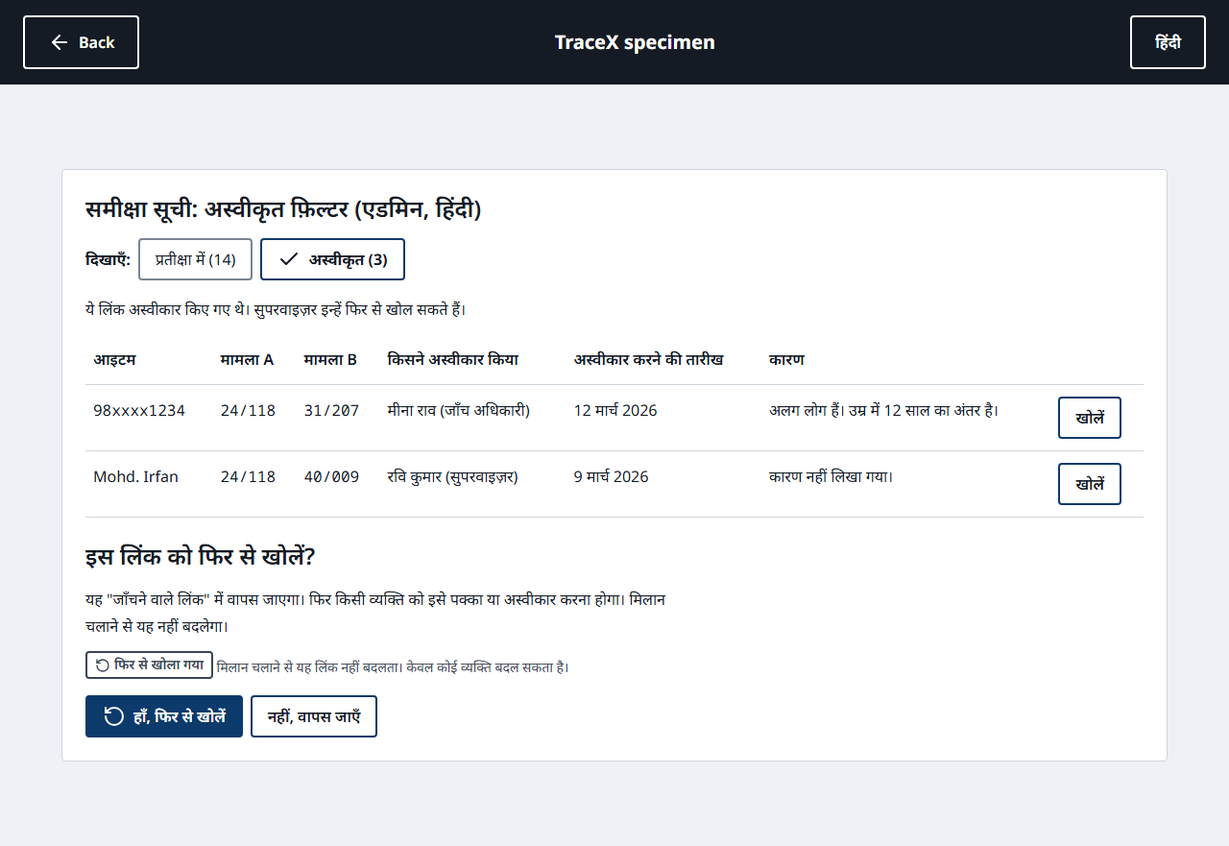
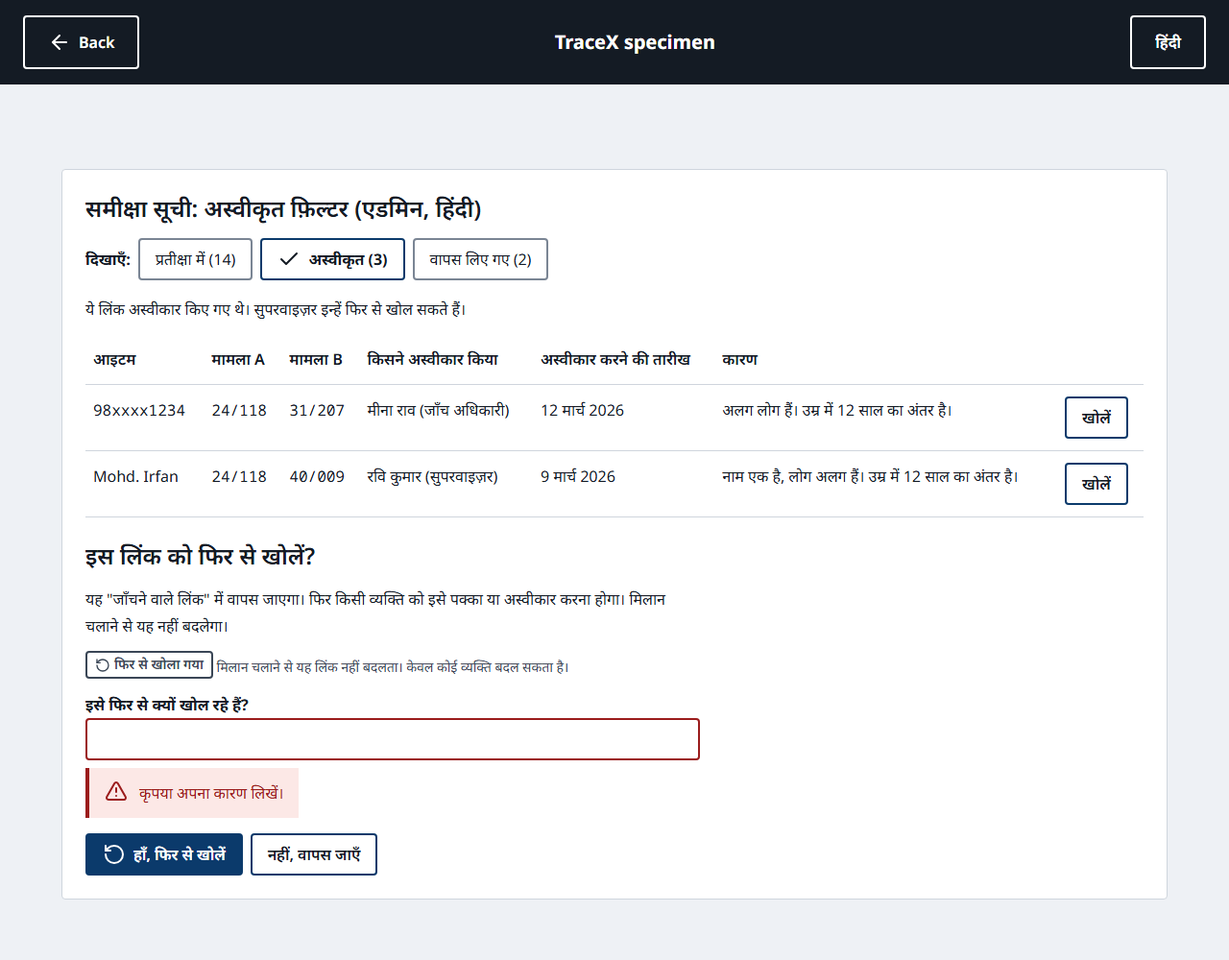
docs(design): required reasons, not-found for hidden links, Undone filter (D43)

diff --git a/docs/design/specimen.html b/docs/design/specimen.html
@@ -615,6 +615,7 @@
             <button class="btn" type="button" aria-pressed="true">
               <svg class="i"><use href="#check" /></svg>Rejected (3)
             </button>
+            <button class="btn" type="button" aria-pressed="false">Undone (2)</button>
           </div>
           <p>These links were rejected. A supervisor can reopen them.</p>
           <table class="qtable">
@@ -645,7 +646,7 @@
                 <td data-label="Case B"><span class="mono">40/009</span></td>
                 <td data-label="Rejected by">Ravi Kumar (Supervisor)</td>
                 <td data-label="Rejected on">9 Mar 2026</td>
-                <td data-label="Reason">No reason written.</td>
+                <td data-label="Reason">Same name, different people. Ages differ by 12 years.</td>
                 <td class="act"><button class="btn" type="button">Open</button></td>
               </tr>
             </tbody>
@@ -660,6 +661,29 @@
               ><svg class="i"><use href="#rotate-ccw" /></svg>Reopened</span
             >
             Matching runs do not change this link. Only a person can.
+          </p>
+          <p>
+            <label for="rfe"><strong>Why are you reopening it?</strong></label
+            ><br /><input
+              id="rfe"
+              type="text"
+              aria-invalid="true"
+              aria-describedby="ree"
+              style="
+                width: 100%;
+                min-height: var(--tap-min);
+                font: inherit;
+                border: var(--border-2) solid var(--color-danger);
+                border-radius: var(--radius);
+                padding: 0 var(--space-3);
+                box-sizing: border-box;
+              "
+            /><br /><span
+              id="ree"
+              class="msg"
+              style="display: inline-flex; margin-top: var(--space-2)"
+              ><svg class="i"><use href="#alert" /></svg>Please write your reason.</span
+            >
           </p>
           <div class="row">
             <button class="btn primary" type="button">
@@ -679,6 +703,7 @@
             <button class="btn" type="button" aria-pressed="true">
               <svg class="i"><use href="#check" /></svg>अस्वीकृत (3)
             </button>
+            <button class="btn" type="button" aria-pressed="false">वापस लिए गए (2)</button>
           </div>
           <p>ये लिंक अस्वीकार किए गए थे। सुपरवाइज़र इन्हें फिर से खोल सकते हैं।</p>
           <table class="qtable">
@@ -709,7 +734,7 @@
                 <td data-label="मामला B"><span class="mono">40/009</span></td>
                 <td data-label="किसने अस्वीकार किया">रवि कुमार (सुपरवाइज़र)</td>
                 <td data-label="अस्वीकार करने की तारीख">9 मार्च 2026</td>
-                <td data-label="कारण">कारण नहीं लिखा गया।</td>
+                <td data-label="कारण">नाम एक है, लोग अलग हैं। उम्र में 12 साल का अंतर है।</td>
                 <td class="act"><button class="btn" type="button">खोलें</button></td>
               </tr>
             </tbody>
@@ -725,12 +750,131 @@
             >
             मिलान चलाने से यह लिंक नहीं बदलता। केवल कोई व्यक्ति बदल सकता है।
           </p>
+          <p>
+            <label for="rfh"><strong>इसे फिर से क्यों खोल रहे हैं?</strong></label
+            ><br /><input
+              id="rfh"
+              type="text"
+              aria-invalid="true"
+              aria-describedby="reh"
+              style="
+                width: 100%;
+                min-height: var(--tap-min);
+                font: inherit;
+                border: var(--border-2) solid var(--color-danger);
+                border-radius: var(--radius);
+                padding: 0 var(--space-3);
+                box-sizing: border-box;
+              "
+            /><br /><span
+              id="reh"
+              class="msg"
+              style="display: inline-flex; margin-top: var(--space-2)"
+              ><svg class="i"><use href="#alert" /></svg>कृपया अपना कारण लिखें।</span
+            >
+          </p>
           <div class="row">
             <button class="btn primary" type="button">
               <svg class="i"><use href="#rotate-ccw" /></svg>हाँ, फिर से खोलें
             </button>
             <button class="btn" type="button">नहीं, वापस जाएँ</button>
           </div>
+        </div>
+      </section>
+
+      <section>
+        <h2>Review queue: Undone filter (admin, English)</h2>
+        <div class="queue" data-app="admin">
+          <div class="filter" role="group" aria-label="Show">
+            <strong>Show:</strong>
+            <button class="btn" type="button" aria-pressed="false">Waiting (14)</button>
+            <button class="btn" type="button" aria-pressed="false">Rejected (3)</button>
+            <button class="btn" type="button" aria-pressed="true">
+              <svg class="i"><use href="#check" /></svg>Undone (2)
+            </button>
+          </div>
+          <p>These links were undone. A supervisor can reopen them.</p>
+          <table class="qtable">
+            <thead>
+              <tr>
+                <th>Item</th>
+                <th>Case A</th>
+                <th>Case B</th>
+                <th>Undone by</th>
+                <th>Undone on</th>
+                <th>Reason</th>
+                <th></th>
+              </tr>
+            </thead>
+            <tbody>
+              <tr>
+                <td data-label="Item"><span class="mono">98xxxx1234</span></td>
+                <td data-label="Case A"><span class="mono">24/118</span></td>
+                <td data-label="Case B"><span class="mono">31/207</span></td>
+                <td data-label="Undone by">Charu Singh (Supervisor)</td>
+                <td data-label="Undone on">12 Mar 2026</td>
+                <td data-label="Reason">Linked by mistake. Different phone owners.</td>
+                <td class="act"><button class="btn" type="button">Open</button></td>
+              </tr>
+              <tr>
+                <td data-label="Item">Mohd. Irfan</td>
+                <td data-label="Case A"><span class="mono">24/118</span></td>
+                <td data-label="Case B"><span class="mono">40/009</span></td>
+                <td data-label="Undone by">Charu Singh (Supervisor)</td>
+                <td data-label="Undone on">9 Mar 2026</td>
+                <td data-label="Reason">Number was reused by a new owner.</td>
+                <td class="act"><button class="btn" type="button">Open</button></td>
+              </tr>
+            </tbody>
+          </table>
+        </div>
+      </section>
+
+      <section lang="hi" style="line-height: var(--leading-hi)">
+        <h2>समीक्षा सूची: वापस लिए गए फ़िल्टर (एडमिन, हिंदी)</h2>
+        <div class="queue" data-app="admin">
+          <div class="filter" role="group" aria-label="दिखाएँ">
+            <strong>दिखाएँ:</strong>
+            <button class="btn" type="button" aria-pressed="false">प्रतीक्षा में (14)</button>
+            <button class="btn" type="button" aria-pressed="false">अस्वीकृत (3)</button>
+            <button class="btn" type="button" aria-pressed="true">
+              <svg class="i"><use href="#check" /></svg>वापस लिए गए (2)
+            </button>
+          </div>
+          <p>ये लिंक वापस लिए गए थे। सुपरवाइज़र इन्हें फिर से खोल सकते हैं।</p>
+          <table class="qtable">
+            <thead>
+              <tr>
+                <th>आइटम</th>
+                <th>मामला A</th>
+                <th>मामला B</th>
+                <th>किसने वापस लिया</th>
+                <th>वापस लेने की तारीख</th>
+                <th>कारण</th>
+                <th></th>
+              </tr>
+            </thead>
+            <tbody>
+              <tr>
+                <td data-label="आइटम"><span class="mono">98xxxx1234</span></td>
+                <td data-label="मामला A"><span class="mono">24/118</span></td>
+                <td data-label="मामला B"><span class="mono">31/207</span></td>
+                <td data-label="किसने वापस लिया">चारु सिंह (सुपरवाइज़र)</td>
+                <td data-label="वापस लेने की तारीख">12 मार्च 2026</td>
+                <td data-label="कारण">गलती से जुड़ गया। फ़ोन के मालिक अलग हैं।</td>
+                <td class="act"><button class="btn" type="button">खोलें</button></td>
+              </tr>
+              <tr>
+                <td data-label="आइटम">Mohd. Irfan</td>
+                <td data-label="मामला A"><span class="mono">24/118</span></td>
+                <td data-label="मामला B"><span class="mono">40/009</span></td>
+                <td data-label="किसने वापस लिया">चारु सिंह (सुपरवाइज़र)</td>
+                <td data-label="वापस लेने की तारीख">9 मार्च 2026</td>
+                <td data-label="कारण">नंबर नए मालिक को मिल गया था।</td>
+                <td class="act"><button class="btn" type="button">खोलें</button></td>
+              </tr>
+            </tbody>
+          </table>
         </div>
       </section>
 

diff --git a/docs/specs/design-flows.md b/docs/specs/design-flows.md
@@ -123,9 +123,12 @@ Replaces the content (no modal):
 ```
 | Reject this link?                                |
 | The two records will no longer be shown          |
-| as the same.                  |
+| as the same.                                     |
+| Why are you rejecting it?                        |
+| [ ____________________________ ]                 |
 | [ * No, go back ]      [ (x) Yes, reject ]       |
 ```
+The reason is required (access spec 3.1: reject, undo and reopen all need a reason; a missing reason is refused with 422). Empty field: "Please write your reason." beside the field, and "Yes, reject" does not act. The same reason field, labelled "Why are you undoing it?", sits on the step before "Undo this link" is carried out (A3b, O6, O8). Confirm needs no reason.
 "Yes, reject" uses the danger style; "No, go back" is primary here because the safe choice should be the easiest. Flow: Reject -> O7 -> Yes -> O8.
 
 ### O8 Link decided
@@ -182,15 +185,17 @@ Open -> A3b: the explanation panel with admin detail open by default, buttons `[
 #### A3c Rejected filter and Reopen (D34)
 Reopening a rejected link is done here and nowhere else. The officer app never lists a rejected link and has no Reopen button (a rejected link is not a connection, so there is not even a locked card for it).
 
-**Where the filter sits.** Directly under the page title, above the Type / Area filters, as a two-choice status switch with the label "Show":
+**Where the filter sits.** Directly under the page title, above the Type / Area filters, as a three-choice status switch with the label "Show" (D43):
 ```
-Show:  [ (check) Waiting (14) ]  [ Rejected (3) ]
+Show:  [ (check) Waiting (14) ]  [ Rejected (3) ]  [ Undone (2) ]
 ```
-It is a pair of buttons, 44px high, 8px apart. The chosen one has a solid 2px `action` border, bold text and a check icon; the other has a `line` border and no icon, so the choice is readable in grayscale. Default is "Waiting". Both counts are always visible. The choice is kept in the page address so Back returns to it. Type and Area filters apply to both choices; "Waiting more than 7 days" is hidden under Rejected.
+It is a row of buttons, 44px high, 8px apart. The chosen one has a solid 2px `action` border, bold text and a check icon; the other has a `line` border and no icon, so the choice is readable in grayscale. Default is "Waiting". All three counts are always visible. The choice is kept in the page address so Back returns to it. Type and Area filters apply to both choices; "Waiting more than 7 days" is hidden under Rejected and Undone.
 
 **Counts.** Counts include only links the viewer may see (access spec: rows the viewer may not see do not exist for them). A count never reveals a hidden link.
 
-**Rejected table.** Line above it: "These links were rejected. A supervisor can reopen them." Columns: Item, Case A, Case B, Rejected by (name, then the plain role label from DESIGN_RULES 7a), Rejected on ("12 Mar 2026"), Reason (wraps, never cut with "..."; full text in Open), `[Open]`. Default sort: Rejected on, newest first. No strength badge (the link is no longer a link). "Show more" after 50 rows. If the rejecter wrote no reason the cell says "No reason written."
+**Rejected table.** Line above it: "These links were rejected. A supervisor can reopen them." Columns: Item, Case A, Case B, Rejected by (name, then the plain role label from DESIGN_RULES 7a), Rejected on ("12 Mar 2026"), Reason (wraps, never cut with "..."; full text in Open), `[Open]`. Default sort: Rejected on, newest first. No strength badge (the link is no longer a link). "Show more" after 50 rows. The reason is always present (it is required when rejecting).
+
+**Undone filter (D43).** Same table, same row design and same Reopen flow. Line above it: "These links were undone. A supervisor can reopen them." Columns: Item, Case A, Case B, Undone by, Undone on, Reason, `[Open]`. Open shows the history message "(x) Undone by Charu Singh (Supervisor) on 12 Mar 2026" with the reason, then the explanation panel and `[ * Reopen this link ]`. Reopening an undone link behaves exactly as for a rejected one (it becomes a Possible match under Waiting with the "Reopened" tag; D37 applies). Empty: "No undone links. Links that supervisors undo will appear here."
 
 **Open on a rejected link (A3d).** The explanation panel as it stood when rejected, admin detail open, headed by a message with the history (never hidden in More detail):
 ```
@@ -206,35 +211,35 @@ It is a pair of buttons, 44px high, 8px apart. The chosen one has a solid 2px `a
 | Reopen this link?                                                 |
 | It goes back to "Links to check". A person must then confirm      |
 | or reject it. Matching runs will not change it.                   |
-| Why are you reopening it? (not required)                          |
+| Why are you reopening it?                                         |
 | [ ______________________________ ]                                |
 | [ * Yes, reopen ]            [ No, go back ]                      |
 ```
-"Yes, reopen" is primary here because reopening loses nothing: the link only returns to the queue and can be rejected again. "No, go back" is outlined. A reason, if written, is kept in the link history, not in the audit log (access spec). If the API makes the reason required, the label drops "(not required)" and an empty field shows "Please write your reason. [Fix]".
+"Yes, reopen" is primary here because reopening loses nothing: the link only returns to the queue and can be rejected again. "No, go back" is outlined. The reason is required (access spec 3.1). It is kept in the link history, not in the audit log. Empty field: "Please write your reason." beside the field, and "Yes, reopen" does not act.
 
 **After reopen.** The message stays on the page: "(check) You reopened this link. It is back in 'Links to check'." with `[ * Open it ]` and `[ Back to the list ]`. The link:
-- leaves the Rejected filter at once; Rejected count goes down by 1, Waiting count up by 1;
+- leaves the Rejected (or Undone) filter at once; that count goes down by 1, Waiting count up by 1;
 - appears under Waiting as a Possible match (dashed `check` border, alert-triangle, "Possible match. Please check.") with a second tag "(rotate-ccw) Reopened" beside the badge, so it is not mistaken for a new link;
-- in A3b shows "Reopened by Charu Singh on 14 Mar 2026. Earlier it was rejected by Meena Rao on 12 Mar 2026." and "Matching runs do not change this link. Only a person can." (D37: a reopened link is never changed by a rerun, so its strength stays as it was);
+- in A3b shows "Reopened by Charu Singh on 14 Mar 2026. Earlier it was rejected (or undone) by Meena Rao on 12 Mar 2026." and "Matching runs do not change this link. Only a person can." (D37: a reopened link is never changed by a rerun, so its strength stays as it was);
 - takes the normal decisions again: `[ * Confirm they are the same ]` `[ Reject this link ]` (Reject with its second step, O7), for roles that may decide it.
 There is no Undo for a reopen; to reverse it a supervisor rejects the link again in the normal way.
 
-**Who can reopen.** Access spec: Reopen a REJECTED / UNDONE link is allowed for SUPERVISOR and above; a link whose ends are in different districts is decided only by a SENIOR covering both ends (D32). Rejected links are not connections, so no stub is shown for them.
-| Viewer | Rejected filter | Reopen |
+**Who can reopen.** Access spec: Reopen a REJECTED / UNDONE link is allowed for SUPERVISOR and above; a link whose ends are in different districts is decided only by a SENIOR covering both ends (D32). Rejected and undone links are not connections, so no stub is shown for them. A link the viewer cannot see does not exist for them: it is never listed, counted or confirmed by a message, and opening it by address shows the generic not-found state (404, never 403; D35): "We could not find this link. [Back to the list]". A role line is shown only to a viewer who can see the link but lacks the role.
+| Viewer | Rejected / Undone filter | Reopen |
 |---|---|---|
 | Supervisor, both cases in own area | rows listed, full detail | button shown |
-| Supervisor, link joins two areas | row not listed; if opened by address: "This link joins two police areas. Only a senior officer can decide it." | no button |
+| Supervisor, link joins two areas | row not listed; opened by address: not-found state | none |
 | Senior officer covering both ends | rows listed, full detail | button shown |
-| Senior officer not covering both | row not listed; if opened by address: "You do not cover both police areas." | no button |
+| Senior officer not covering both | row not listed; opened by address: not-found state | none |
 | Administrator (D29) | counts only (below) | none |
-| Investigating officer, Officer | not part of the admin panel; if reached: "Only a supervisor can reopen a link." | none |
+| Investigating officer, Officer (can see the link, lack the role) | not part of the admin panel; if reached: "Only a supervisor can reopen a link." | none |
 A missing button always comes with its line (DESIGN_RULES 5), never a greyed button.
 
-**Administrator view (D29).** The filter shows both counts. In place of the table: a message "You can see how many links are rejected. Case details are for officers with access." and a counts-only summary: Waiting, Rejected, Reopened this month. No `[Open]`, no case numbers, no names.
+**Administrator view (D29).** The filter shows all three counts. In place of the table: a message "You can see how many links are waiting, rejected or undone. Case details are for officers with access." and a counts-only summary: Waiting, Rejected, Undone, Reopened this month. No `[Open]`, no case numbers, no names.
 
 **Empty state.** "No rejected links. Links that officers reject will appear here." If filters hide everything: "Nothing found. Check the filters or try fewer words." with `[Clear filters]`.
 
-**Problem states.** Reopen failed: "We could not reopen it. Nothing was changed. [Try again]". Someone already acted (conflict): "Someone already changed this link. [Show the list]". Access removed meanwhile: "You do not have access to reopen this link. [Back to the list]". Loading: "Loading..." with spinner.
+**Problem states.** Reopen failed: "We could not reopen it. Nothing was changed. [Try again]". Someone already acted (conflict): "Someone already changed this link. [Show the list]". Access removed meanwhile, or any link the viewer cannot see: the not-found state, "We could not find this link. [Back to the list]" (never a message that confirms the link exists). Loading: "Loading..." with spinner.
 
 **Strings (English / Hindi).** Western digits in both. `{n}`, `{name}`, `{date}`, `{role}` are filled by the app. The keys go into the shared i18n files, both languages together, when the screen is built; this spec does not add them. Hindi needs native-speaker review before release.
 | Key | English | Hindi |
@@ -246,30 +251,36 @@ A missing button always comes with its line (DESIGN_RULES 5), never a greyed but
 | queue.col.rejectedBy | Rejected by | किसने अस्वीकार किया |
 | queue.col.rejectedOn | Rejected on | अस्वीकार करने की तारीख |
 | queue.col.reason | Reason | कारण |
-| queue.reason.none | No reason written. | कारण नहीं लिखा गया। |
+| queue.reason.required | Please write your reason. | कृपया अपना कारण लिखें। |
+| queue.filter.undone | Undone ({n}) | वापस लिए गए ({n}) |
+| queue.undone.intro | These links were undone. A supervisor can reopen them. | ये लिंक वापस लिए गए थे। सुपरवाइज़र इन्हें फिर से खोल सकते हैं। |
+| queue.col.undoneBy | Undone by | किसने वापस लिया |
+| queue.col.undoneOn | Undone on | वापस लेने की तारीख |
+| queue.undone.history | Undone by {name} ({role}) on {date} | {name} ({role}) ने {date} को वापस लिया |
+| queue.empty.undone | No undone links. Links that supervisors undo will appear here. | कोई वापस लिया गया लिंक नहीं है। सुपरवाइज़र जो लिंक वापस लेंगे, वे यहाँ दिखेंगे। |
+| undo.reasonLabel | Why are you undoing it? | इसे वापस क्यों ले रहे हैं? |
+| reject.reasonLabel | Why are you rejecting it? | इसे अस्वीकार क्यों कर रहे हैं? |
 | queue.rejected.history | Rejected by {name} ({role}) on {date} | {name} ({role}) ने {date} को अस्वीकार किया |
 | queue.reopen.button | Reopen this link | इस लिंक को फिर से खोलें |
 | queue.reopen.title | Reopen this link? | इस लिंक को फिर से खोलें? |
 | queue.reopen.body | It goes back to "Links to check". A person must then confirm or reject it. Matching runs will not change it. | यह "जाँचने वाले लिंक" में वापस जाएगा। फिर किसी व्यक्ति को इसे पक्का या अस्वीकार करना होगा। मिलान चलाने से यह नहीं बदलेगा। |
-| queue.reopen.reasonLabel | Why are you reopening it? (not required) | इसे फिर से क्यों खोल रहे हैं? (ज़रूरी नहीं) |
+| queue.reopen.reasonLabel | Why are you reopening it? | इसे फिर से क्यों खोल रहे हैं? |
 | queue.reopen.yes | Yes, reopen | हाँ, फिर से खोलें |
 | queue.reopen.no | No, go back | नहीं, वापस जाएँ |
 | queue.reopen.done | You reopened this link. It is back in "Links to check". | आपने यह लिंक फिर से खोल दिया। यह अब "जाँचने वाले लिंक" में है। |
 | queue.reopen.openIt | Open it | इसे खोलें |
 | queue.backToList | Back to the list | सूची पर वापस जाएँ |
 | queue.tag.reopened | Reopened | फिर से खोला गया |
-| queue.reopened.history | Reopened by {name} on {date}. Earlier it was rejected by {name2} on {date2}. | {name} ने {date} को फिर से खोला। पहले इसे {name2} ने {date2} को अस्वीकार किया था। |
+| queue.reopened.history | Reopened by {name} on {date}. Earlier it was rejected or undone by {name2} on {date2}. | {name} ने {date} को फिर से खोला। पहले इसे {name2} ने {date2} को अस्वीकार या वापस किया था। |
 | queue.reopened.rerun | Matching runs do not change this link. Only a person can. | मिलान चलाने से यह लिंक नहीं बदलता। केवल कोई व्यक्ति बदल सकता है। |
 | queue.empty.rejected | No rejected links. Links that officers reject will appear here. | कोई अस्वीकृत लिंक नहीं है। अधिकारी जो लिंक अस्वीकार करेंगे, वे यहाँ दिखेंगे। |
 | queue.empty.filtered | Nothing found. Check the filters or try fewer words. | कुछ नहीं मिला। फ़िल्टर जाँचें या कम शब्द लिखें। |
 | queue.clearFilters | Clear filters | फ़िल्टर हटाएँ |
 | queue.noRight.role | Only a supervisor can reopen a link. | केवल सुपरवाइज़र लिंक को फिर से खोल सकते हैं। |
-| queue.noRight.twoAreas | This link joins two police areas. Only a senior officer can decide it. | यह लिंक दो थाना क्षेत्रों को जोड़ता है। इसका फ़ैसला केवल वरिष्ठ अधिकारी कर सकते हैं। |
-| queue.noRight.notBoth | You do not cover both police areas. | आप दोनों थाना क्षेत्रों को कवर नहीं करते। |
-| queue.admin.counts | You can see how many links are rejected. Case details are for officers with access. | आप देख सकते हैं कि कितने लिंक अस्वीकृत हैं। मामले का ब्योरा केवल पहुँच वाले अधिकारियों के लिए है। |
+| queue.admin.counts | You can see how many links are waiting, rejected or undone. Case details are for officers with access. | आप देख सकते हैं कि कितने लिंक प्रतीक्षा में, अस्वीकृत या वापस लिए गए हैं। मामले का ब्योरा केवल पहुँच वाले अधिकारियों के लिए है। |
 | queue.error.reopen | We could not reopen it. Nothing was changed. | हम इसे फिर से नहीं खोल सके। कुछ भी बदला नहीं गया। |
 | queue.error.conflict | Someone already changed this link. | किसी ने यह लिंक पहले ही बदल दिया है। |
-| queue.error.denied | You do not have access to reopen this link. | आपको इस लिंक को फिर से खोलने की पहुँच नहीं है। |
+| queue.error.notFound | We could not find this link. | हमें यह लिंक नहीं मिला। |
 | officer.rejected.mistake | You rejected this link. If this was a mistake, ask your supervisor. | आपने यह लिंक अस्वीकार किया। अगर यह ग़लती थी, तो अपने सुपरवाइज़र से कहें। |
 
 ### A4 Access requests

diff --git a/DESIGN_RULES.md b/DESIGN_RULES.md
@@ -148,8 +148,8 @@ Two strengths are ever shown (a low-band pair is not a link and is never stored,
 
 ## 11. Feedback, undo, errors
 - Every action gets visible feedback within 1 second: a message in the page (not a vanishing toast) with icon and words, e.g. "Saved: you confirmed this link". Messages stay until dismissed or the next action. Reason: a slow reader needs time; vanishing text is missed.
-- Decisions are recorded in the audit log. Only Supervisor and above are offered Undo (section 7a): after Confirm they see "You confirmed this link. [Undo]"; Investigating officers see the message without Undo. Reject requires a second step ("Reject this link? Yes, reject / No, go back") because wrongly rejecting loses a lead; Confirm does not. There is no Undo after Reject in the officer app: a rejected link is reopened only in the admin panel review queue (Rejected filter, Supervisor and above, with its own confirm step; D34). Reason: one place to reverse a rejection keeps the officer app simple, and a rejected link is not a connection, so the officer app has nothing to show for it.
-- Admin status filter (for example Waiting / Rejected): a two-button switch; the chosen button is marked by border weight, bold text and a check icon, never by colour alone; both buttons show their counts.
+- Decisions are recorded in the audit log. Only Supervisor and above are offered Undo (section 7a): after Confirm they see "You confirmed this link. [Undo]"; Investigating officers see the message without Undo. Reject requires a second step ("Reject this link? Yes, reject / No, go back") because wrongly rejecting loses a lead; Confirm does not. There is no Undo after Reject in the officer app: a rejected link is reopened only in the admin panel review queue (Rejected and Undone filters, Supervisor and above, with its own confirm step; D34). Reason: one place to reverse a rejection keeps the officer app simple, and a rejected link is not a connection, so the officer app has nothing to show for it.
+- Admin status filter (Waiting / Rejected / Undone): a row of buttons; the chosen button is marked by border weight, bold text and a check icon, never by colour alone; every button shows its count. Reject, Undo and Reopen each ask for a required reason on their confirm step. A link the viewer cannot see shows the generic not-found state, never a role or access message (404, not 403).
 - Admin tables at 375px: each row becomes a stacked block of label and value lines, with no sideways scroll. Reason: hidden columns would hide who rejected a link, when and why.
 - Loading: a text line "Loading your cases..." with a spinner icon; no skeleton animation. Waiting over 10 seconds adds "This is taking long. Please wait or try again."
 - Errors say what happened, whether data is safe, and what to do: "We could not save. Nothing was changed. [Try again]". Never codes, never blame ("you entered an invalid value"), never a dead end; always a button.
@@ -198,6 +198,6 @@ Screenshots required at 1280px wide desktop and 375px phone, in English and Hind
 11. Focus ring visible on every interactive element by keyboard.
 12. Error, empty, loading and success states exist for the screen.
 13. Back and language switch visible and working; the officer can reach home in one click.
-14. Reject has a second step; Undo (after Confirm only) appears only for Supervisor and above; Reopen exists only in the admin Rejected filter, with a second step; strong (automatic) links show "Undo this link", never Reject.
+14. Reject has a second step; Undo (after Confirm only) appears only for Supervisor and above; Reopen exists only in the admin Rejected and Undone filters, with a second step; strong (automatic) links show "Undo this link", never Reject.
 15. Page usable at 200 percent zoom and in grayscale (strength still readable).
 16. On the first real screens, also verify what the specimen could not: real Noto fonts loaded (no system fallback), layout at 375px width, and the longest real Hindi strings (no clipping, no truncation). **Ticked for the specimen** [x], from Edge headless renders of `docs/design/specimen.html` at true 375px and 1280px viewports (evidence in `docs/design/screenshots/`): Noto Sans 400/600/700, Noto Sans Devanagari 400/600/700 and Noto Sans Mono report status "loaded" and are the first family used; page scroll width equals viewport width (no horizontal scroll); no element extends past the right edge; every button and summary measures at least 56px (officer) or 44px (admin queue); long Hindi buttons wrap to two lines, none clipped. Fixed on the way: case numbers and the "खोलें" button wrapped mid-word in the narrow table (now no-wrap, wider admin container). Must be repeated on the real app screens.
